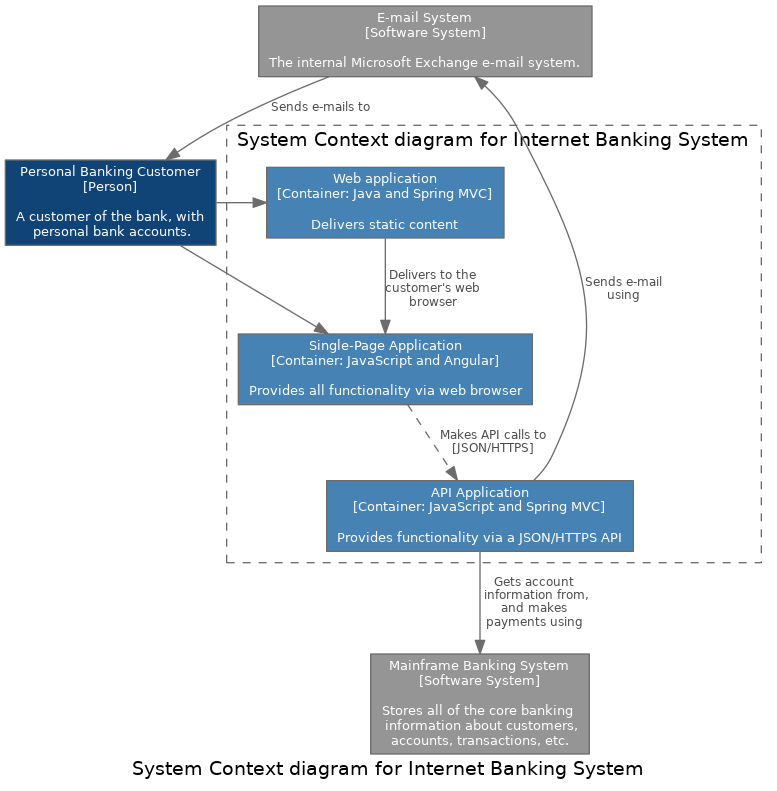
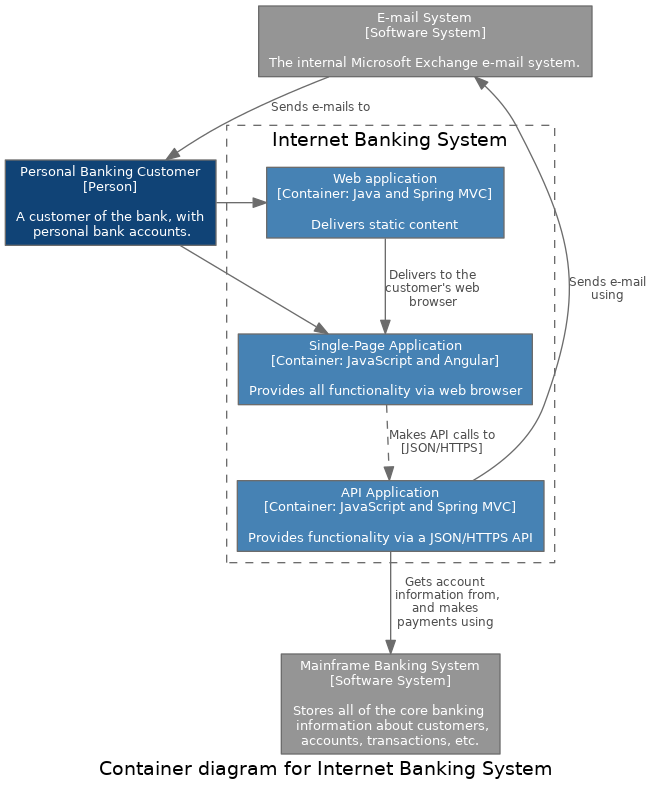
fix c2 example and add python files

Changed region(s): [[0.1534, 0.3338, 1.0, 1.0], [0.0, 0.0, 0.9816, 0.3641]]

diff --git a/c2.py b/c2.py
@@ -1,54 +1,3 @@
-## C4models using python
-
-Python interface for creating c4models using pydot.
-
-### Installation
-
-`
-git clone https://github.com/equinor/c4model-python
-pip install .
-`
-
-### Examples
-
-#### C1
-
-![c1 diagram](c1.png)
-
-```python
-from c4model import Model, Person, SoftwareSystem, Relationship
-
-customer = Person(name='Personal Banking Customer',
-                  description='A customer of the bank, with\n personal bank accounts.')
-
-email = SoftwareSystem(name='E-mail System', description='The internal Microsoft Exchange e-mail system.',
-                       is_external=True)
-internet = SoftwareSystem(name='Internet Banking System',
-                          description='Allows customers to view\n information about their bank\n accounts, and make payments.')
-mainframe = SoftwareSystem(name='Mainframe Banking System',
-                           description='Stores all of the core banking \n information about customers,\naccounts, transactions, etc.',
-                           is_external=True)
-
-c1 = (Model(name='c1', label='System Context diagram for Internet Banking System')
-      .add_box(customer)
-      .add_box(email)
-      .add_box(mainframe)
-      .add_box(internet)
-      .add_relationship(
-    Relationship(customer, internet, description='Views account\nbalances, and\nmakes payments\nusing'))
-      .add_relationship(Relationship(internet, email, description='Sends e-mail\nusing'))
-      .add_relationship(Relationship(email, customer, description='Sends e-mails to'))
-      .add_relationship(
-    Relationship(internet, mainframe, description='Gets account\n information from,\nand makes\npayments using'))
-      .save()
-      )
-```
-
-#### C2
-
-![c2 diagram](c2.png)
-
-```python
 from c4model import Model, Person, SoftwareSystem, Container, Relationship, Submodel
 
 customer = Person(name='Personal Banking Customer',
@@ -89,4 +38,3 @@ c2 = (Model(name='c2', label='Container diagram for Internet Banking System')
     Relationship(api, mainframe, description='Gets account\n information from,\nand makes\npayments using'))
       .save()
       )
-```

diff --git a/c1.py b/c1.py
@@ -1,0 +1,26 @@
+from c4model import Model, Person, SoftwareSystem, Relationship
+
+customer = Person(name='Personal Banking Customer',
+                  description='A customer of the bank, with\n personal bank accounts.')
+
+email = SoftwareSystem(name='E-mail System', description='The internal Microsoft Exchange e-mail system.',
+                       is_external=True)
+internet = SoftwareSystem(name='Internet Banking System',
+                          description='Allows customers to view\n information about their bank\n accounts, and make payments.')
+mainframe = SoftwareSystem(name='Mainframe Banking System',
+                           description='Stores all of the core banking \n information about customers,\naccounts, transactions, etc.',
+                           is_external=True)
+
+c1 = (Model(name='c1', label='System Context diagram for Internet Banking System')
+      .add_box(customer)
+      .add_box(email)
+      .add_box(mainframe)
+      .add_box(internet)
+      .add_relationship(
+    Relationship(customer, internet, description='Views account\nbalances, and\nmakes payments\nusing'))
+      .add_relationship(Relationship(internet, email, description='Sends e-mail\nusing'))
+      .add_relationship(Relationship(email, customer, description='Sends e-mails to'))
+      .add_relationship(
+    Relationship(internet, mainframe, description='Gets account\n information from,\nand makes\npayments using'))
+      .save()
+      )

diff --git a/setup.py b/setup.py
@@ -5,7 +5,7 @@ with open("README.md", "r") as fh:
 
 setuptools.setup(
      name='c4model',
-     version='0.1',
+     version='0.1.0',
      author="Jostein Solaas",
      author_email="josas@equinor.com",
      description="C4models using python",
